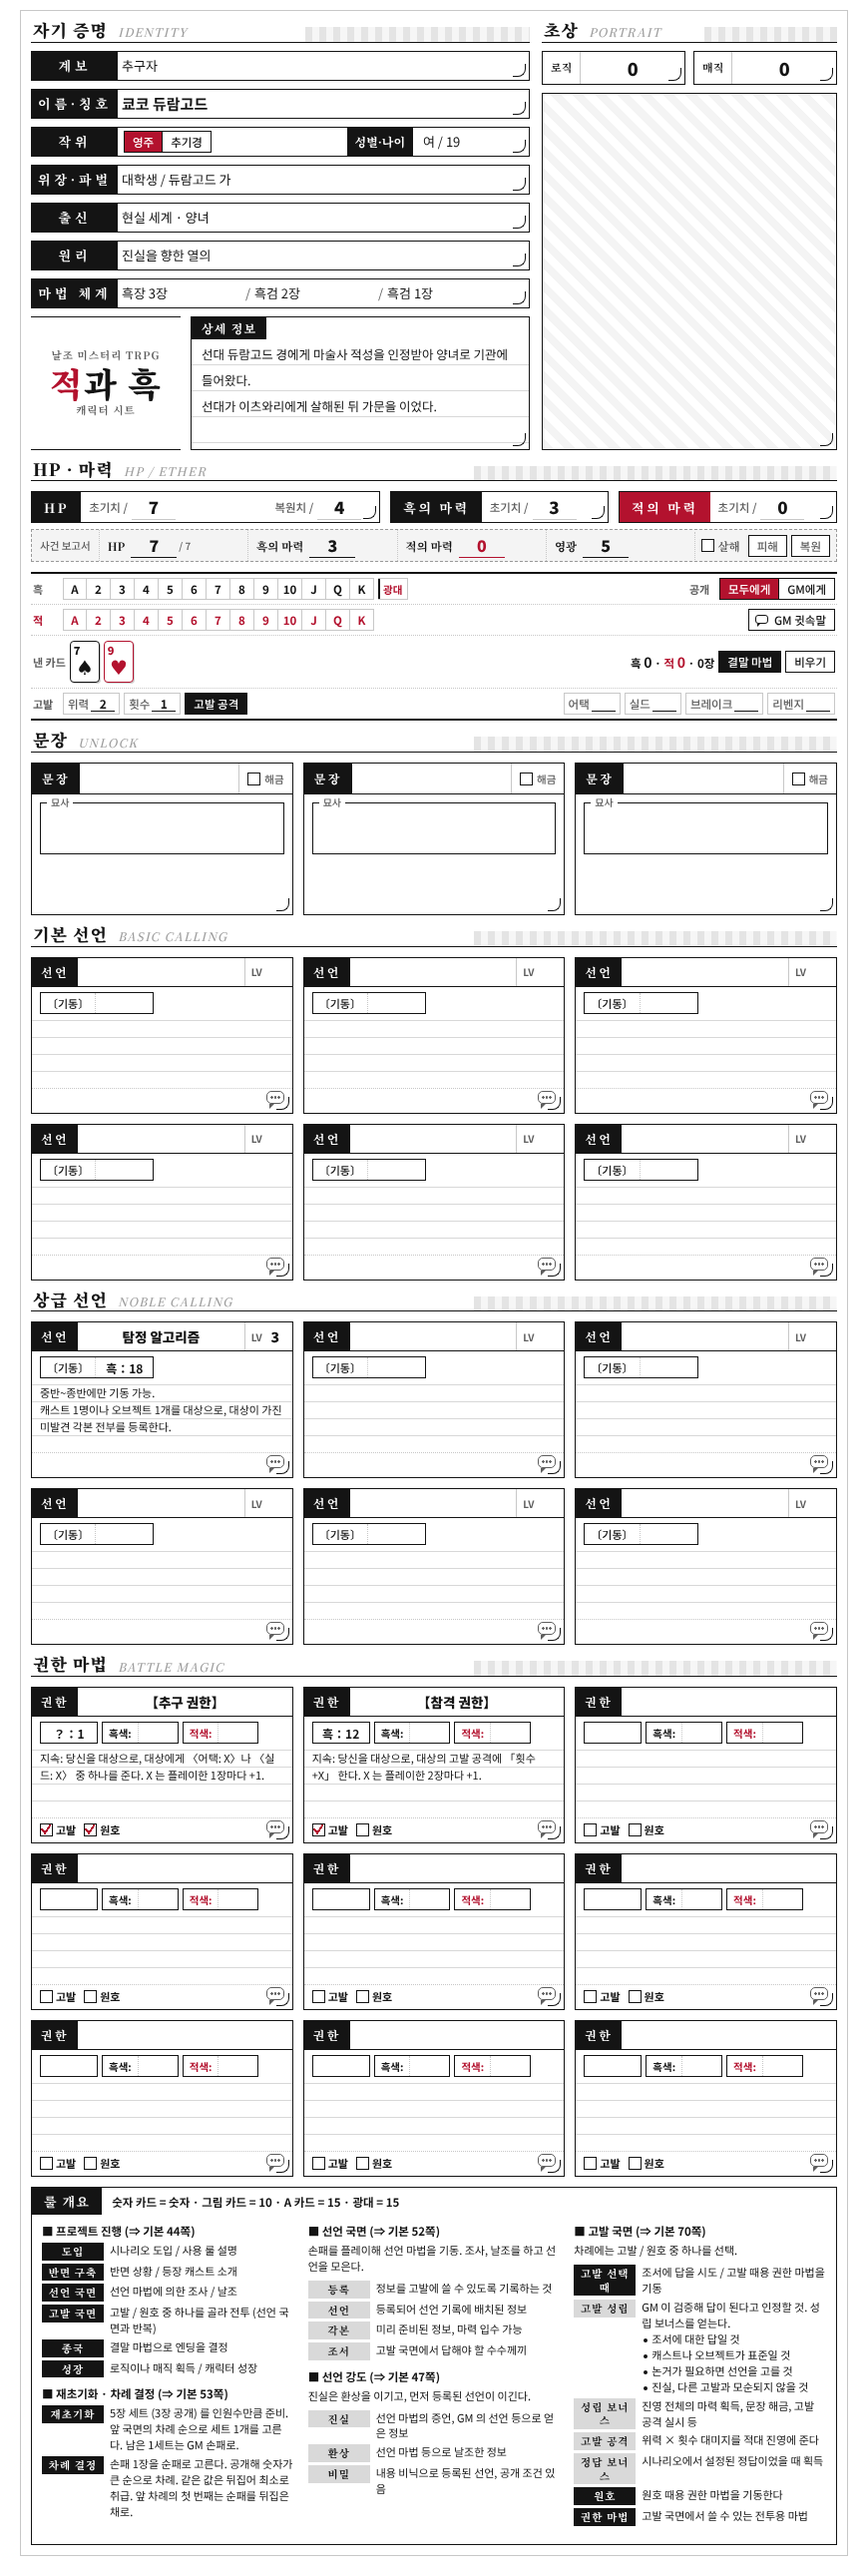
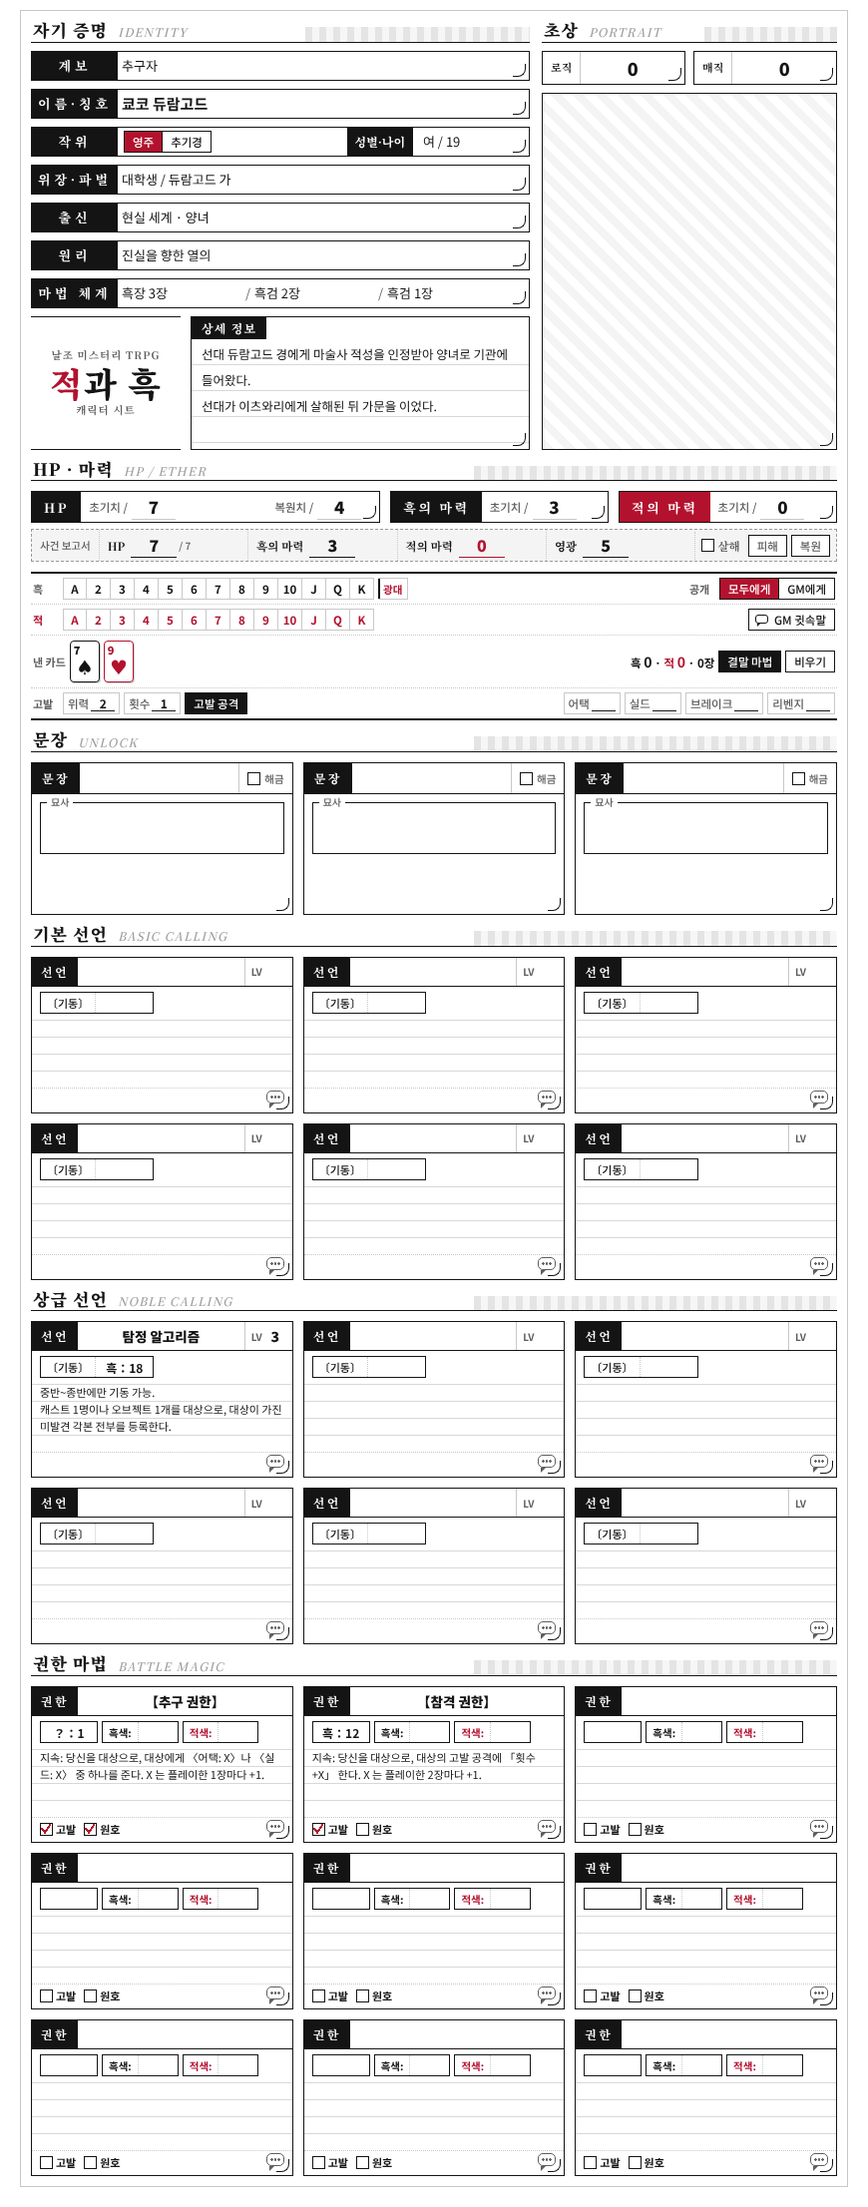
Red and Black: remove the rules overview section
Claude-Session: https://claude.ai/code/session_0199V9dAANERLdNjnvpJJAzb

Changed region(s): [[0.031, 0.0, 0.9621, 0.9982], [0.8069, 0.0, 0.9621, 0.0312]]

diff --git a/redblack/roll20/sheet/redblack.html b/redblack/roll20/sheet/redblack.html
@@ -119,33 +119,6 @@
 <div class="mg au orn"><div class="mh"><b>권한</b><input type="text" class="nm" name="attr_au8_name" title="권한 마법 이름"><span></span></div><div class="boot"><span class="bt"><input type="text" class="bv" name="attr_au8_boot" title="기동"></span><span class="bt c"><span>흑색:</span><input type="text" name="attr_au8_black" title="흑색"></span><span class="bt c r"><span>적색:</span><input type="text" name="attr_au8_red" title="적색"></span></div><div class="auto"><span class="mir tx" name="attr_au8_text"></span><textarea class="at tx" name="attr_au8_text" title="효과"></textarea></div><div class="ft"><label class="tg"><input type="checkbox" class="ck" name="attr_au8_acc" value="1">고발</label><label class="tg"><input type="checkbox" class="ck" name="attr_au8_sup" value="1">원호</label><button type="action" class="bub" name="act_au8" title="기동해 채팅에 올림"></button></div></div>
 <div class="mg au orn"><div class="mh"><b>권한</b><input type="text" class="nm" name="attr_au9_name" title="권한 마법 이름"><span></span></div><div class="boot"><span class="bt"><input type="text" class="bv" name="attr_au9_boot" title="기동"></span><span class="bt c"><span>흑색:</span><input type="text" name="attr_au9_black" title="흑색"></span><span class="bt c r"><span>적색:</span><input type="text" name="attr_au9_red" title="적색"></span></div><div class="auto"><span class="mir tx" name="attr_au9_text"></span><textarea class="at tx" name="attr_au9_text" title="효과"></textarea></div><div class="ft"><label class="tg"><input type="checkbox" class="ck" name="attr_au9_acc" value="1">고발</label><label class="tg"><input type="checkbox" class="ck" name="attr_au9_sup" value="1">원호</label><button type="action" class="bub" name="act_au9" title="기동해 채팅에 올림"></button></div></div>
   </div>
-
-  <!-- 7단: 룰 개요 (공식 시트 인쇄) -->
-  <div class="rule">
-    <div class="rh"><b>룰 개요</b><span>숫자 카드 = 숫자 · 그림 카드 = 10 · A 카드 = 15 · 광대 = 15</span></div>
-    <div class="rg">
-      <div>
-        <div class="rgh">■ 프로젝트 진행 (⇒ 기본 44쪽)</div>
-        <div class="kv"><b class="d">도입</b><span>시나리오 도입 / 사용 룰 설명</span><b class="d">반면 구축</b><span>반면 상황 / 등장 캐스트 소개</span><b class="d">선언 국면</b><span>선언 마법에 의한 조사 / 날조</span><b class="d">고발 국면</b><span>고발 / 원호 중 하나를 골라 전투 (선언 국면과 반복)</span><b class="d">종국</b><span>결말 마법으로 엔딩을 결정</span><b class="d">성장</b><span>로직이나 매직 획득 / 캐릭터 성장</span></div>
-        <div class="rgh">■ 재초기화 · 차례 결정 (⇒ 기본 53쪽)</div>
-        <div class="kv"><b class="d">재초기화</b><span>5장 세트 (3장 공개) 를 인원수만큼 준비. 앞 국면의 차례 순으로 세트 1개를 고른다. 남은 1세트는 GM 손패로.</span><b class="d">차례 결정</b><span>손패 1장을 순패로 고른다. 공개해 숫자가 큰 순으로 차례. 같은 값은 뒤집어 최소로 취급. 앞 차례의 첫 번째는 순패를 뒤집은 채로.</span></div>
-      </div>
-      <div>
-        <div class="rgh">■ 선언 국면 (⇒ 기본 52쪽)</div>
-        <p>손패를 플레이해 선언 마법을 기동. 조사, 날조를 하고 선언을 모은다.</p>
-        <div class="kv"><b>등록</b><span>정보를 고발에 쓸 수 있도록 기록하는 것</span><b>선언</b><span>등록되어 선언 기록에 배치된 정보</span><b>각본</b><span>미리 준비된 정보, 마력 입수 가능</span><b>조서</b><span>고발 국면에서 답해야 할 수수께끼</span></div>
-        <div class="rgh">■ 선언 강도 (⇒ 기본 47쪽)</div>
-        <p>진실은 환상을 이기고, 먼저 등록된 선언이 이긴다.</p>
-        <div class="kv"><b>진실</b><span>선언 마법의 증언, GM 의 선언 등으로 얻은 정보</span><b>환상</b><span>선언 마법 등으로 날조한 정보</span><b>비밀</b><span>내용 비닉으로 등록된 선언, 공개 조건 있음</span></div>
-      </div>
-      <div>
-        <div class="rgh">■ 고발 국면 (⇒ 기본 70쪽)</div>
-        <p>차례에는 고발 / 원호 중 하나를 선택.</p>
-        <div class="kv"><b class="d">고발 선택 때</b><span>조서에 답을 시도 / 고발 때용 권한 마법을 기동</span><b>고발 성립</b><span>GM 이 검증해 답이 된다고 인정할 것. 성립 보너스를 얻는다.<span class="li">조서에 대한 답일 것</span><span class="li">캐스트나 오브젝트가 표준일 것</span><span class="li">논거가 필요하면 선언을 고를 것</span><span class="li">진실, 다른 고발과 모순되지 않을 것</span></span>
-          <b>성립 보너스</b><span>진영 전체의 마력 획득, 문장 해금, 고발 공격 실시 등</span><b>고발 공격</b><span>위력 × 횟수 대미지를 적대 진영에 준다</span><b>정답 보너스</b><span>시나리오에서 설정된 정답이었을 때 획득</span><b class="d">원호</b><span>원호 때용 권한 마법을 기동한다</span><b class="d">권한 마법</b><span>고발 국면에서 쓸 수 있는 전투용 마법</span></div>
-      </div>
-    </div>
-  </div>
 </div>
 <!-- 채팅 카드: 겹테 · 먹색 머리 + 영문 부제(en) · 체크무늬 띠 · 부채꼴 트럼프 칩 · 「기동」/「부족」 봉랍 도장.
      굴림이 없는 카드라 sheet worker 가 계산을 끝낸 값을 그대로 넣는다 (startRoll 로 보낸다).

diff --git a/redblack/roll20/src/redblack.src.html b/redblack/roll20/src/redblack.src.html
@@ -99,33 +99,6 @@
   <div class="g3">
 <!--@AUTH-->
   </div>
-
-  <!-- 7단: 룰 개요 (공식 시트 인쇄) -->
-  <div class="rule">
-    <div class="rh"><b>룰 개요</b><span>숫자 카드 = 숫자 · 그림 카드 = 10 · A 카드 = 15 · 광대 = 15</span></div>
-    <div class="rg">
-      <div>
-        <div class="rgh">■ 프로젝트 진행 (⇒ 기본 44쪽)</div>
-        <div class="kv"><b class="d">도입</b><span>시나리오 도입 / 사용 룰 설명</span><b class="d">반면 구축</b><span>반면 상황 / 등장 캐스트 소개</span><b class="d">선언 국면</b><span>선언 마법에 의한 조사 / 날조</span><b class="d">고발 국면</b><span>고발 / 원호 중 하나를 골라 전투 (선언 국면과 반복)</span><b class="d">종국</b><span>결말 마법으로 엔딩을 결정</span><b class="d">성장</b><span>로직이나 매직 획득 / 캐릭터 성장</span></div>
-        <div class="rgh">■ 재초기화 · 차례 결정 (⇒ 기본 53쪽)</div>
-        <div class="kv"><b class="d">재초기화</b><span>5장 세트 (3장 공개) 를 인원수만큼 준비. 앞 국면의 차례 순으로 세트 1개를 고른다. 남은 1세트는 GM 손패로.</span><b class="d">차례 결정</b><span>손패 1장을 순패로 고른다. 공개해 숫자가 큰 순으로 차례. 같은 값은 뒤집어 최소로 취급. 앞 차례의 첫 번째는 순패를 뒤집은 채로.</span></div>
-      </div>
-      <div>
-        <div class="rgh">■ 선언 국면 (⇒ 기본 52쪽)</div>
-        <p>손패를 플레이해 선언 마법을 기동. 조사, 날조를 하고 선언을 모은다.</p>
-        <div class="kv"><b>등록</b><span>정보를 고발에 쓸 수 있도록 기록하는 것</span><b>선언</b><span>등록되어 선언 기록에 배치된 정보</span><b>각본</b><span>미리 준비된 정보, 마력 입수 가능</span><b>조서</b><span>고발 국면에서 답해야 할 수수께끼</span></div>
-        <div class="rgh">■ 선언 강도 (⇒ 기본 47쪽)</div>
-        <p>진실은 환상을 이기고, 먼저 등록된 선언이 이긴다.</p>
-        <div class="kv"><b>진실</b><span>선언 마법의 증언, GM 의 선언 등으로 얻은 정보</span><b>환상</b><span>선언 마법 등으로 날조한 정보</span><b>비밀</b><span>내용 비닉으로 등록된 선언, 공개 조건 있음</span></div>
-      </div>
-      <div>
-        <div class="rgh">■ 고발 국면 (⇒ 기본 70쪽)</div>
-        <p>차례에는 고발 / 원호 중 하나를 선택.</p>
-        <div class="kv"><b class="d">고발 선택 때</b><span>조서에 답을 시도 / 고발 때용 권한 마법을 기동</span><b>고발 성립</b><span>GM 이 검증해 답이 된다고 인정할 것. 성립 보너스를 얻는다.<span class="li">조서에 대한 답일 것</span><span class="li">캐스트나 오브젝트가 표준일 것</span><span class="li">논거가 필요하면 선언을 고를 것</span><span class="li">진실, 다른 고발과 모순되지 않을 것</span></span>
-          <b>성립 보너스</b><span>진영 전체의 마력 획득, 문장 해금, 고발 공격 실시 등</span><b>고발 공격</b><span>위력 × 횟수 대미지를 적대 진영에 준다</span><b>정답 보너스</b><span>시나리오에서 설정된 정답이었을 때 획득</span><b class="d">원호</b><span>원호 때용 권한 마법을 기동한다</span><b class="d">권한 마법</b><span>고발 국면에서 쓸 수 있는 전투용 마법</span></div>
-      </div>
-    </div>
-  </div>
 </div>
 <!--@ROLLTEMPLATE-->
 <!--@WORKER-->

diff --git a/redblack/roll20/sheet/redblack.css b/redblack/roll20/sheet/redblack.css
@@ -208,20 +208,6 @@ body.sheet-darkmode .rb input[type=text],body.sheet-darkmode .rb input[type=numb
 .rb .mg label.tg{display:flex;align-items:center;gap:3px;width:auto;margin:0;padding:0;font:700 11px var(--sans)}
 .rb .mg .ft button[type=action].bub{margin-left:auto}
 
-/* row 7: rules overview printed on the official sheet */
-.rb .rule{border:1.3px solid var(--ink)}
-.rb .rule .rh{display:flex;align-items:center;gap:10px}
-.rb .rule .rh b{background:var(--bar);color:#ffffff;font:700 13px/1 var(--head);padding:7px 12px;letter-spacing:.1em}
-.rb .rule .rh span{font:700 11.5px var(--sans)}
-.rb .rg{display:grid;grid-template-columns:repeat(3,minmax(0,1fr));gap:10px 14px;padding:8px 10px 10px;font-size:11px;line-height:1.45}
-.rb .rgh{margin:0 0 4px;font:700 11.5px var(--sans)}
-.rb .rg .kv{display:grid;grid-template-columns:62px minmax(0,1fr);gap:3px 6px;align-items:start;margin-bottom:8px}
-.rb .rg .kv > b{background:#d9d9d9;color:#141414;font:700 10.5px/1.3 var(--head);padding:2px 4px;text-align:center;letter-spacing:.1em}
-.rb .rg .kv > b.d{background:var(--bar);color:#ffffff}
-.rb .rg .li{display:block;padding-left:10px;position:relative}
-.rb .rg .li::before{content:"";position:absolute;left:2px;top:7px;width:4px;height:4px;border-radius:50%;background:currentColor}
-.rb .rg p{margin:0 0 6px}
-
 /* auto height text fields (roll20kit/autogrow.py): the hidden mirror span of the same attribute sets the height, the textarea covers it */
 .rb div.auto{position:relative;display:block;width:100%;min-width:0;flex:1 1 auto;align-self:stretch}
 .rb span.mir{display:block;width:100%;min-width:0;margin:0;padding:0 4px;background:transparent;color:var(--ink);border:0;border-radius:0;box-shadow:none;font:inherit;line-height:1.4;outline:0}

diff --git a/redblack/roll20/src/redblack.src.css b/redblack/roll20/src/redblack.src.css
@@ -207,17 +207,3 @@ body.sheet-darkmode .rb input[type=text],body.sheet-darkmode .rb input[type=numb
 .rb .mg .ft{display:flex;align-items:center;gap:8px;padding:2px 8px 4px;border-top:1px dotted var(--line);min-height:24px}
 .rb .mg label.tg{display:flex;align-items:center;gap:3px;width:auto;margin:0;padding:0;font:700 11px var(--sans)}
 .rb .mg .ft button[type=action].bub{margin-left:auto}
-
-/* row 7: rules overview printed on the official sheet */
-.rb .rule{border:1.3px solid var(--ink)}
-.rb .rule .rh{display:flex;align-items:center;gap:10px}
-.rb .rule .rh b{background:var(--bar);color:#ffffff;font:700 13px/1 var(--head);padding:7px 12px;letter-spacing:.1em}
-.rb .rule .rh span{font:700 11.5px var(--sans)}
-.rb .rg{display:grid;grid-template-columns:repeat(3,minmax(0,1fr));gap:10px 14px;padding:8px 10px 10px;font-size:11px;line-height:1.45}
-.rb .rgh{margin:0 0 4px;font:700 11.5px var(--sans)}
-.rb .rg .kv{display:grid;grid-template-columns:62px minmax(0,1fr);gap:3px 6px;align-items:start;margin-bottom:8px}
-.rb .rg .kv > b{background:#d9d9d9;color:#141414;font:700 10.5px/1.3 var(--head);padding:2px 4px;text-align:center;letter-spacing:.1em}
-.rb .rg .kv > b.d{background:var(--bar);color:#ffffff}
-.rb .rg .li{display:block;padding-left:10px;position:relative}
-.rb .rg .li::before{content:"";position:absolute;left:2px;top:7px;width:4px;height:4px;border-radius:50%;background:currentColor}
-.rb .rg p{margin:0 0 6px}

diff --git a/redblack/roll20/OPEN_QUESTIONS.md b/redblack/roll20/OPEN_QUESTIONS.md
@@ -23,7 +23,7 @@
 용어는 일본어 원문을 옮긴 것 (한국어판 없음). 목업 아래 용어표에서 검토.
 
 ## 공식 에라타 반영 (groupsne.co.jp 赤と黒 エラッタ, 기본 2024-08-14 · 상급 2022-08-16 · 페이지 2024-12-10)
-- 기본 58쪽 스톡의 실행: PC 가 세트를 다 고른 뒤 남은 1세트는 순패가 없는 GM 손패로 → 룰 개요 「재초기화」 줄에 추가.
+- 기본 58쪽 스톡의 실행: PC 가 세트를 다 고른 뒤 남은 1세트는 순패가 없는 GM 손패로 → (룰 개요는 2026-11-24 시트에서 뺌)
 - 기본 31쪽 추구자: 【단죄 현현】 → 【단죄 권한】, 「고발이 정답일 때」 → 「고발이 정답 보너스를 발생시켰을 때」 → 목업 샘플 수정.
 - 기본 78쪽 각주 26: 영광 1 인 상대를 살해하면 1점 (올림) → 지금 계산(절반 올림)과 같음.
 - 기본 91쪽 〈브레이크: X〉 = 상대의 〈실드〉 효과를 X 점까지 무효 → 지금 계산과 같음.
